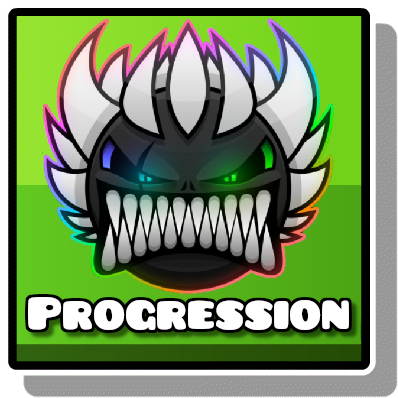
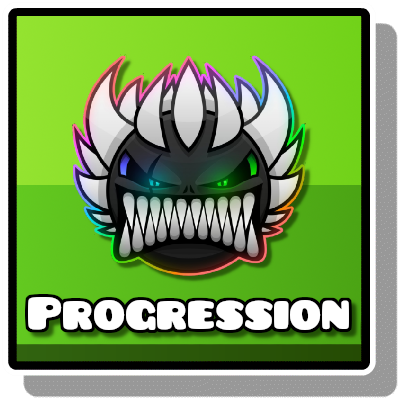
beta 15

diff --git a/src/main.cpp b/src/main.cpp
@@ -255,7 +255,14 @@ class $modify(LevelListLayer) {
 
 		bool inGDDP = Mod::get()->getSavedValue<bool>("in-gddp");
 
-		if (inGDDP && (p0->m_listID == data[type][id]["listID"].as_int())) {
+		auto listID = data[type][id]["listID"].as_int();
+		auto mainPack = 0;
+		if (type == "legacy") { mainPack = data[type][id]["mainPack"].as_int(); }
+		auto practiceID = 0;
+		if (type == "main") { practiceID = data[type][id]["practiceID"].as_int(); }
+		if (type == "legacy") { practiceID = data["main"][mainPack]["practiceID"].as_int(); }
+
+		if (inGDDP && (p0->m_listID == listID || p0->m_listID == practiceID)) {
 
 			log::info("{}", Mod::get()->getSavedValue<bool>("in-gddp"));
 
@@ -848,8 +855,6 @@ void DPLayer::openList(CCObject* sender) {
 	}
 
 	auto listID = m_data[type][id]["listID"].as_int();
-	auto practiceID = 0;
-	if (type == "main") { practiceID = m_data[type][id]["practiceID"].as_int(); }
 	auto reqLevels = 0;
 	if (type == "main") { reqLevels = m_data[type][id]["reqLevels"].as_int(); }
 	auto totalLevels = 0;
@@ -858,6 +863,9 @@ void DPLayer::openList(CCObject* sender) {
 	if (type == "main") { hasPractice = m_data[type][id]["practice"].as_bool(); }
 	auto mainPack = 0;
 	if (type == "legacy") { mainPack = m_data[type][id]["mainPack"].as_int(); }
+	auto practiceID = 0;
+	if (type == "main") { practiceID = m_data[type][id]["practiceID"].as_int(); }
+	if (type == "legacy") { practiceID = m_data["main"][mainPack]["practiceID"].as_int(); }
 
 	Mod::get()->setSavedValue<std::string>("current-pack-type", type);
 	Mod::get()->setSavedValue<int>("current-pack-index", id);
@@ -867,11 +875,8 @@ void DPLayer::openList(CCObject* sender) {
 
 	auto fetchID = 0;
 
-	if (Mod::get()->getSavedValue<std::string>("current-pack-type") == "main" && Mod::get()->getSavedValue<bool>("is-practice", false)) {
+	if ((type == "main" || type == "legacy") && Mod::get()->getSavedValue<bool>("is-practice", false)) {
 		fetchID = practiceID;
-	}
-	else if (Mod::get()->getSavedValue<std::string>("current-pack-type") == "legacy" && Mod::get()->getSavedValue<bool>("is-practice", false)) {
-		fetchID = m_data["main"][mainPack]["practiceID"].as_int();
 	}
 	else {
 		fetchID = listID;
@@ -911,6 +916,15 @@ void DPLayer::openList(CCObject* sender) {
 			(i'll probably only use 1, 2, 3, and 51)
 			*/
 
+			auto cachedData = Mod::get()->getSavedValue<matjson::Value>("cached-data");
+			auto cachedType = Mod::get()->getSavedValue<std::string>("current-pack-type");
+			auto cachedID = Mod::get()->getSavedValue<int>("current-pack-index");
+
+			auto mainPack = 0;
+			if (cachedType == "legacy") { mainPack = cachedData[cachedType][cachedID]["mainPack"].as_int(); }
+			auto totalLevels = 0;
+			if (cachedType != "monthly") { totalLevels = cachedData[cachedType][cachedID]["totalLevels"].as_int(); }
+
 			auto data = getWords(response, ":");
 			log::info("{}", data);
 
@@ -919,15 +933,15 @@ void DPLayer::openList(CCObject* sender) {
 
 			std::vector<int> IDs;
 			
-			if (Mod::get()->getSavedValue<std::string>("current-pack-type") == "main" && Mod::get()->getSavedValue<bool>("is-practice", false)) {
+			if (cachedType == "main" && Mod::get()->getSavedValue<bool>("is-practice", false)) {
 				for (int i = 0; i < totalLevels; i++)
 				{
 					int num = atoi(levelIDstr.at(i).c_str());
 					IDs.push_back(num);
 				}
 			}
-			else if (Mod::get()->getSavedValue<std::string>("current-pack-type") == "legacy" && Mod::get()->getSavedValue<bool>("is-practice", false))  {
-				for (int i = m_data["main"][mainPack]["totalLevels"].as_int(); i < levelIDstr.size(); i++)
+			else if (cachedType == "legacy" && Mod::get()->getSavedValue<bool>("is-practice", false))  {
+				for (int i = cachedData["main"][mainPack]["totalLevels"].as_int(); i < levelIDstr.size(); i++)
 				{
 					int num = atoi(levelIDstr.at(i).c_str());
 					IDs.push_back(num);
@@ -943,14 +957,15 @@ void DPLayer::openList(CCObject* sender) {
 
 			//gd::string desc = ZipUtils::base64URLDecode(data[5]);
 
-			auto cachedData = Mod::get()->getSavedValue<matjson::Value>("cached-data");
-			auto cachedType = Mod::get()->getSavedValue<std::string>("current-pack-type");
-			auto cachedID = Mod::get()->getSavedValue<int>("current-pack-index");
-
 			gd::string packTitle = "null";
 
 			if (cachedType == "main" || cachedType == "legacy") {
-				packTitle = cachedData[cachedType][cachedID]["name"].as_string() + " Demons";
+				if (Mod::get()->getSavedValue<bool>("is-practice", false)) {
+					packTitle = cachedData[cachedType][cachedID]["name"].as_string() + " Demons (Practice)";
+				}
+				else {
+					packTitle = cachedData[cachedType][cachedID]["name"].as_string() + " Demons";
+				}
 			}
 			else {
 				packTitle = cachedData[cachedType][cachedID]["name"].as_string();

diff --git a/changelog.md b/changelog.md
@@ -1,3 +1,10 @@
+# v1.0.0-beta.15
+
+* Changed Menu Icon to look more like a regular GD Menu Icon
+* Fixed Practice Packs (again)
+* Fixed Practice Packs not showing GDDP Graphics
+* Added "(Practice)" suffix
+
 # V1.0.0-beta.14
 
 * Main & Legacy Practice Packs are separated now
